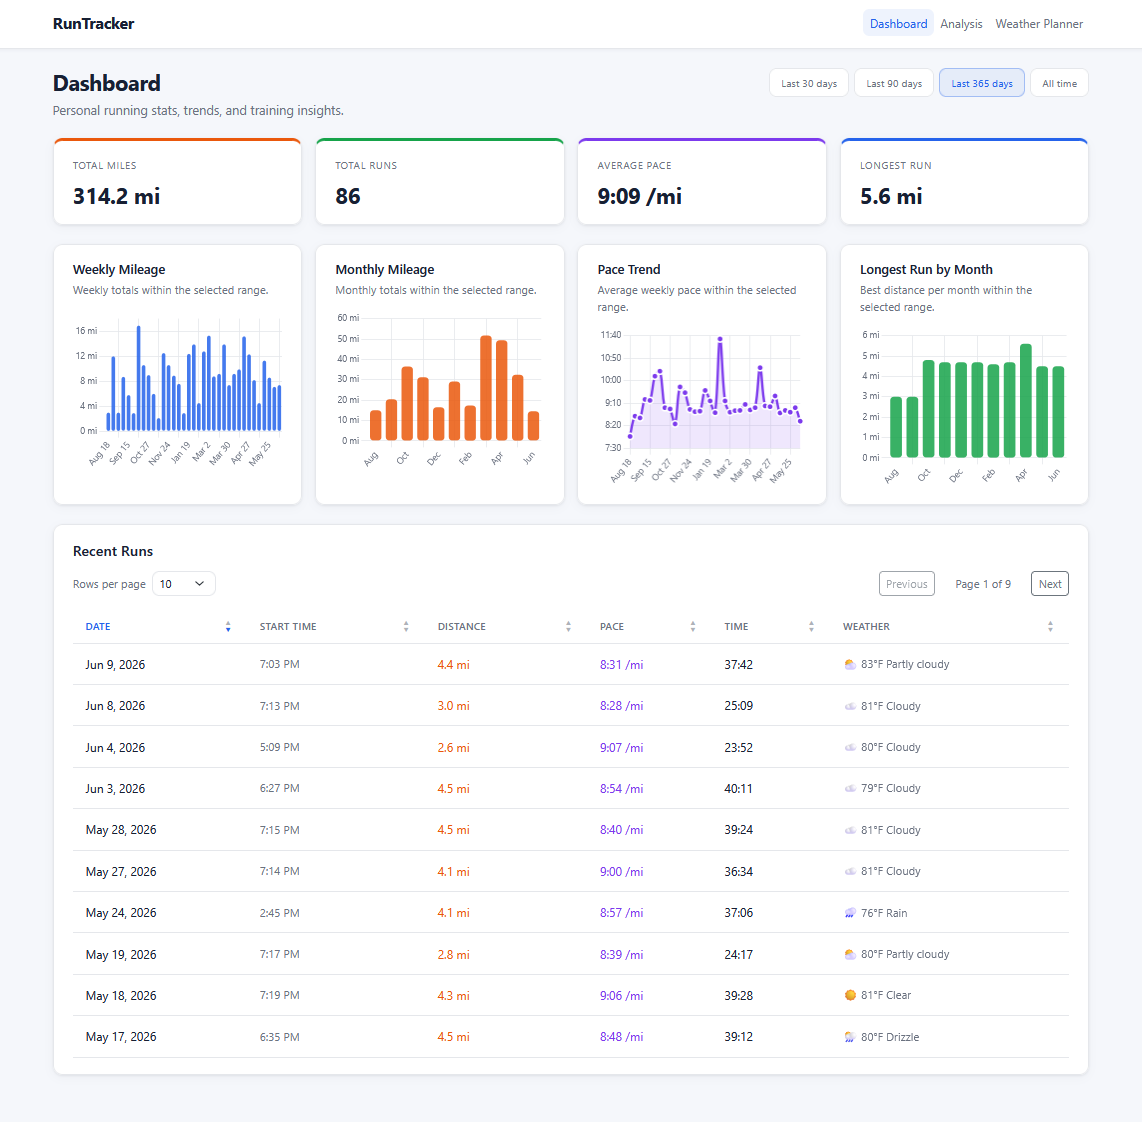
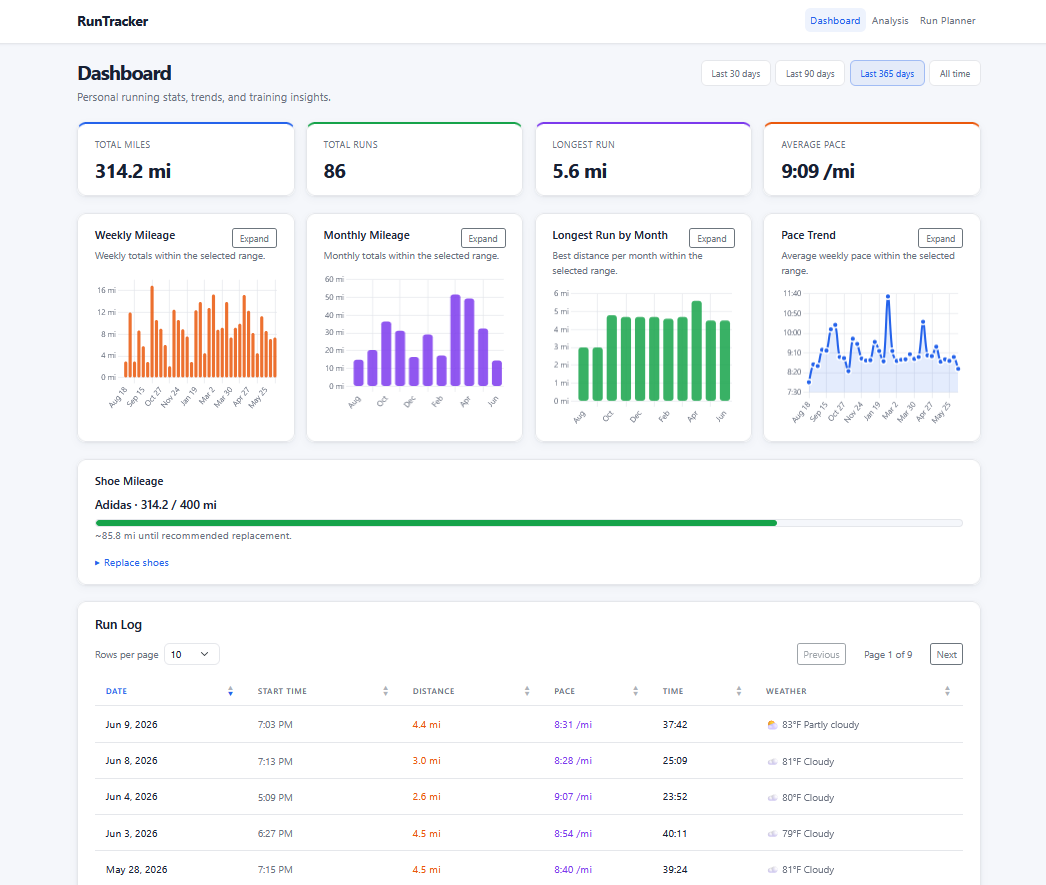
Updated readme

diff --git a/README.md b/README.md
@@ -2,11 +2,29 @@
 
 **Live site:** [https://runtracker-lirm.onrender.com/](https://runtracker-lirm.onrender.com/)
 
-Note: The live site is hosted on a free service. If it has been inactive, the first load may take up to a minute while the server wakes up.
-
 RunTracker is a personal running analytics app I built to better understand my own training data. I started running in August 2025 and have been recording my runs with an Apple Watch, with Strava storing detailed activity metrics like distance, pace, time, elevation, and run history. This app pulls that running data together with historical weather data for each run, then uses dashboards, charts, and analysis tools to help identify patterns in my performance and make better decisions about future runs.
 
 The current version includes a filterable running dashboard, a full run history table, weather-based performance analysis, and a Run Planner that uses recent running history and forecast data to recommend a weekly run plan.
+
+## Screenshots
+
+### Dashboard
+
+The Dashboard summarizes running volume, pace, long runs, weekly mileage, monthly mileage, and recent runs with filtering, sorting, and pagination.
+
+![Dashboard screenshot](docs/screenshots/dashboard.png)
+
+### Analysis
+
+The Analysis page explores performance patterns by distance, weekday, time of day, and temperature, plus Best Running Conditions when enough weather-backed data exists.
+
+![Analysis screenshot](docs/screenshots/analysis.png)
+
+### Run Planner
+
+The Run Planner uses forecast data and recent running patterns to recommend a weekly run plan with suggested days, time windows, distances, run types, and paces.
+
+![Run Planner screenshot](docs/screenshots/weather-planner.png)
 
 ## Features
 
@@ -39,20 +57,7 @@ RunTracker combines two data streams:
 
 **2. Open-Meteo data** — Historical weather matched to past runs by date, time, and coordinates for analysis and the Run Log, plus 7-day New Orleans forecast data used by the Run Planner.
 
-## How the Data Is Processed
-
-1. **Strava sync** — Runs are imported locally through the Strava API (`sync_strava.py`).
-2. **SQLite storage** — Run records, pace values, start times, and synced metadata are stored in `runtracker.db`.
-3. **Historical weather sync** — Past runs with coordinates and start times receive matched weather (`sync_weather.py`).
-4. **Public database export** — A sanitized copy is generated for deployment (`create_public_db.py`), stripping tokens and sensitive fields.
-5. **Dashboard and Analysis** — Flask routes query SQLite, filter by selected date range, and aggregate data through Python helper functions for charts and stat cards.
-6. **Run Planner** — Uses live forecast data from Open-Meteo, recent running history, and Best Running Conditions to build a weekly run plan with suggested days, windows, distances, run types, and paces.
-
 ## Chart Methodology
-
-All pace calculations use numeric `pace_seconds` (seconds per mile). Displayed pace is formatted as minutes per mile. **Lower pace means faster.**
-
-Dashboard and Analysis pages support date filters: `?range=30d`, `?range=90d`, `?range=365d` (default), and `?range=all`.
 
 ### Dashboard
 
@@ -62,8 +67,6 @@ Dashboard and Analysis pages support date filters: `?range=30d`, `?range=90d`, `
 | **Monthly Mileage** | Sum of `distance_miles` per calendar month | Bar |
 | **Longest Run by Month** | Maximum single-run `distance_miles` per calendar month | Bar |
 | **Pace Trend** | Mean `pace_seconds` per week (Monday week start) | Line |
-
-Stat cards on the Dashboard use the same filtered run list: total miles, run count, longest run, and overall average pace.
 
 ### Analysis
 
@@ -78,156 +81,9 @@ Stat cards on the Dashboard use the same filtered run list: total miles, run cou
 | **Pace vs Temperature** | One point per weather-backed run: temperature vs `pace_seconds` | Scatter |
 | **Average Pace by Temperature** | Weather-backed runs grouped into 10°F temperature buckets; mean `pace_seconds` per bucket | Bar |
 
-## Best Running Conditions
-
-An aggregate insight panel derived from recent weather-backed runs:
-
-1. Filter to runs at least **2 miles** long with valid pace, temperature, and qualifying start time (7:00 AM – 10:00 PM buckets).
-2. Group runs by **time-of-day bucket** and **temperature bucket**.
-3. Keep only groups with at least **5 runs**.
-4. Select the group with the **fastest average pace** (`pace_seconds`).
-5. Display summary stats: best time window, temperature range, average pace, run count, average distance, and average temperature.
-
-This identifies the strongest aggregate pattern in the selected date range. It is an exploratory insight, not a guarantee of future performance.
-
 ## Run Planner
 
-Plan My Week on the Run Planner page builds a weekly run schedule from the next 7 days of forecast data and your recent running history. **Suggested Conditions — Last 90 Days** pre-fills defaults when enough weather-backed runs exist. Routes: `/weather` (primary) and `/run-planner` (alias).
-
-### Inputs
-
-| Setting | Options | Default |
-|---------|---------|---------|
-| **Runs per week** | 1–7, or auto | Auto — your 90-day average runs per week, **rounded up** (clamped to 1–7) |
-| **Weekly mileage** | Auto or fixed targets (8–30 mi) | Auto — your average weekly total from the last 90 days |
-| **Minimum / maximum temperature** | °F | From **Suggested Conditions** when available, otherwise 55–85°F |
-| **Preferred time of day** | 90-minute buckets (7:00 AM – 10:00 PM) or Anytime | From **Suggested Conditions** when available |
-| **Average pace** | Auto or fixed offsets from your default | Auto — average pace for your best time/temperature group (see below) |
-
-**Use Suggested Conditions** applies those defaults to Plan My Week and generates your plan in **Your Plan**. You can change any setting and click **Plan My Week** again at any time.
-
-### Defaults from your last 90 days
-
-These values power the auto dropdown labels and the Suggested Conditions card:
-
-**Runs per week**
-
-- Count runs in every calendar week that overlaps the 90-day window (weeks with zero runs count as 0).
-- Average: `total runs ÷ number of calendar weeks in the window`
-- Default: **round up** to the next whole number, clamped between 1 and 7.
-
-Example: 29 runs across 14 weeks → average 2.1 → default **3** runs per week.
-
-**Weekly mileage**
-
-- Sum `distance_miles` per Monday-start week for weeks where you ran.
-- Default: **mean of those weekly totals**.
-
-**Average pace**
-
-- If **Best Running Conditions** finds a qualifying group (see below), use the mean `pace_seconds` for runs in that best time + temperature group.
-- Otherwise, use the **median** `pace_seconds` across all runs in the last 90 days.
-
-**Suggested Conditions — Last 90 Days**
-
-Uses the same Best Running Conditions logic as Analysis, but scoped to 90 days:
-
-1. Filter to runs ≥ **2 miles** with valid pace, temperature, and start time (7:00 AM – 10:00 PM buckets).
-2. Group by **90-minute time-of-day bucket** and **10°F temperature bucket**.
-3. Keep only groups with at least **5 runs**.
-4. Select the group with the **fastest average pace**.
-5. Display that group’s time window, temperature range, average pace, plus your 90-day runs-per-week and weekly mileage defaults.
-
-### How your plan is built
-
 RunTracker scores each daylight hour in the next 7 days using your temperature range, rain probability, and preferred time of day, then picks the highest-scoring days for your runs-per-week setting. Each run gets a time window from the best consecutive hours that day. When you plan two or more runs, easy runs share your weekly mileage evenly and one long run on the best forecast day is 1 mile longer than each easy run. Easy runs use your selected average pace; the long run adds 20 seconds per mile. A **~** mark on a day means that window did not fully match your ideal temperature range.
-
-#### 1. Score forecast hours
-
-Only **daylight hours** (between sunrise and sunset) are considered.
-
-Each hour receives a score:
-
-| Factor | Calculation | Reason |
-|--------|-------------|--------|
-| **Temperature** | 100 if inside your min–max range; otherwise lose **6 points per °F** outside the range (minimum 0) | Prefer your chosen comfort band, but still rank colder/hotter hours instead of excluding them |
-| **Rain** | Subtract **0.5 × precipitation probability**, capped at **50** | Lower rain chance ranks higher |
-| **Preferred time** | **+15** if the hour falls in your preferred time-of-day bucket | Nudge runs toward when you said you prefer to run |
-
-**Hour score** = temperature score − rain penalty + time bonus
-
-#### 2. Pick a day and time window
-
-For each forecast day:
-
-1. Score every daylight hour.
-2. Find the best **consecutive block of hours** (prefer blocks of 2+ hours with the highest average hour score; a single hour is used if nothing better exists).
-3. That block’s average score becomes the **day score**.
-4. The displayed time window is the start and end of that block.
-
-Days are ranked by day score. RunTracker selects the **top N days**, where N is your runs-per-week setting, then sorts them chronologically for display.
-
-#### 3. Assign distances
-
-**One run:** assign the full weekly mileage target to that run.
-
-**Two or more runs:**
-
-1. **Easy run distance** = `(weekly target − 1 mile) ÷ number of runs`, rounded to the nearest **0.5 mi** (minimum **1.0 mi**).
-2. **Long run distance** = easy distance **+ 1.0 mi**.
-3. The **long run** goes on the day with the **highest forecast score**; all other runs are easy runs at the easy distance.
-
-Example with a **9.6 mi** target and **3 runs**:
-
-- Easy distance = `(9.6 − 1) ÷ 3 = 2.87` → **3.0 mi**
-- Long run = **4.0 mi**
-- Plan: 3.0 + 3.0 + 4.0 = **10.0 mi planned** (target 9.6 mi; small differences come from half-mile rounding)
-
-This keeps the rule simple: every easy run is the same length, and the long run is always exactly 1 mile longer.
-
-#### 4. Assign pace
-
-| Run type | Pace |
-|----------|------|
-| **Easy** | Your selected average pace |
-| **Long run** | Selected average pace **+ 20 seconds per mile** |
-
-The default average pace comes from your best time/temperature group when Suggested Conditions has enough data; otherwise from your 90-day median pace. Long runs are intentionally slower — a straightforward easy-vs-long distinction without a full training model.
-
-#### 5. Ideal vs closest-available windows
-
-A run is marked **ideal** when every hour in its window falls inside your min–max temperature range. If not, the row shows a **~** badge: RunTracker still picked the best available window for that day, but temperatures were partially outside your preferred band.
-
-#### Summary line in Your Plan
-
-After you click **Plan My Week**, the header shows:
-
-`N runs · X.X mi planned (target Y.Y mi · M:SS /mi easy pace)`
-
-- **Planned miles** = sum of assigned run distances (may differ slightly from target due to rounding).
-- **Target** = your weekly mileage setting (auto or fixed).
-- **Easy pace** = the resolved average pace used for easy runs (long run is +20 sec/mi).
-
-
-## Screenshots
-
-### Dashboard
-
-The Dashboard summarizes running volume, pace, long runs, weekly mileage, monthly mileage, and recent runs with filtering, sorting, and pagination.
-
-![Dashboard screenshot](docs/screenshots/dashboard.png)
-
-### Analysis
-
-The Analysis page explores performance patterns by distance, weekday, time of day, and temperature, plus Best Running Conditions when enough weather-backed data exists.
-
-![Analysis screenshot](docs/screenshots/analysis.png)
-
-### Run Planner
-
-The Run Planner uses forecast data and recent running patterns to recommend a weekly run plan with suggested days, time windows, distances, run types, and paces.
-
-![Run Planner screenshot](docs/screenshots/weather-planner.png)
 
 ## Local Development Setup
 
